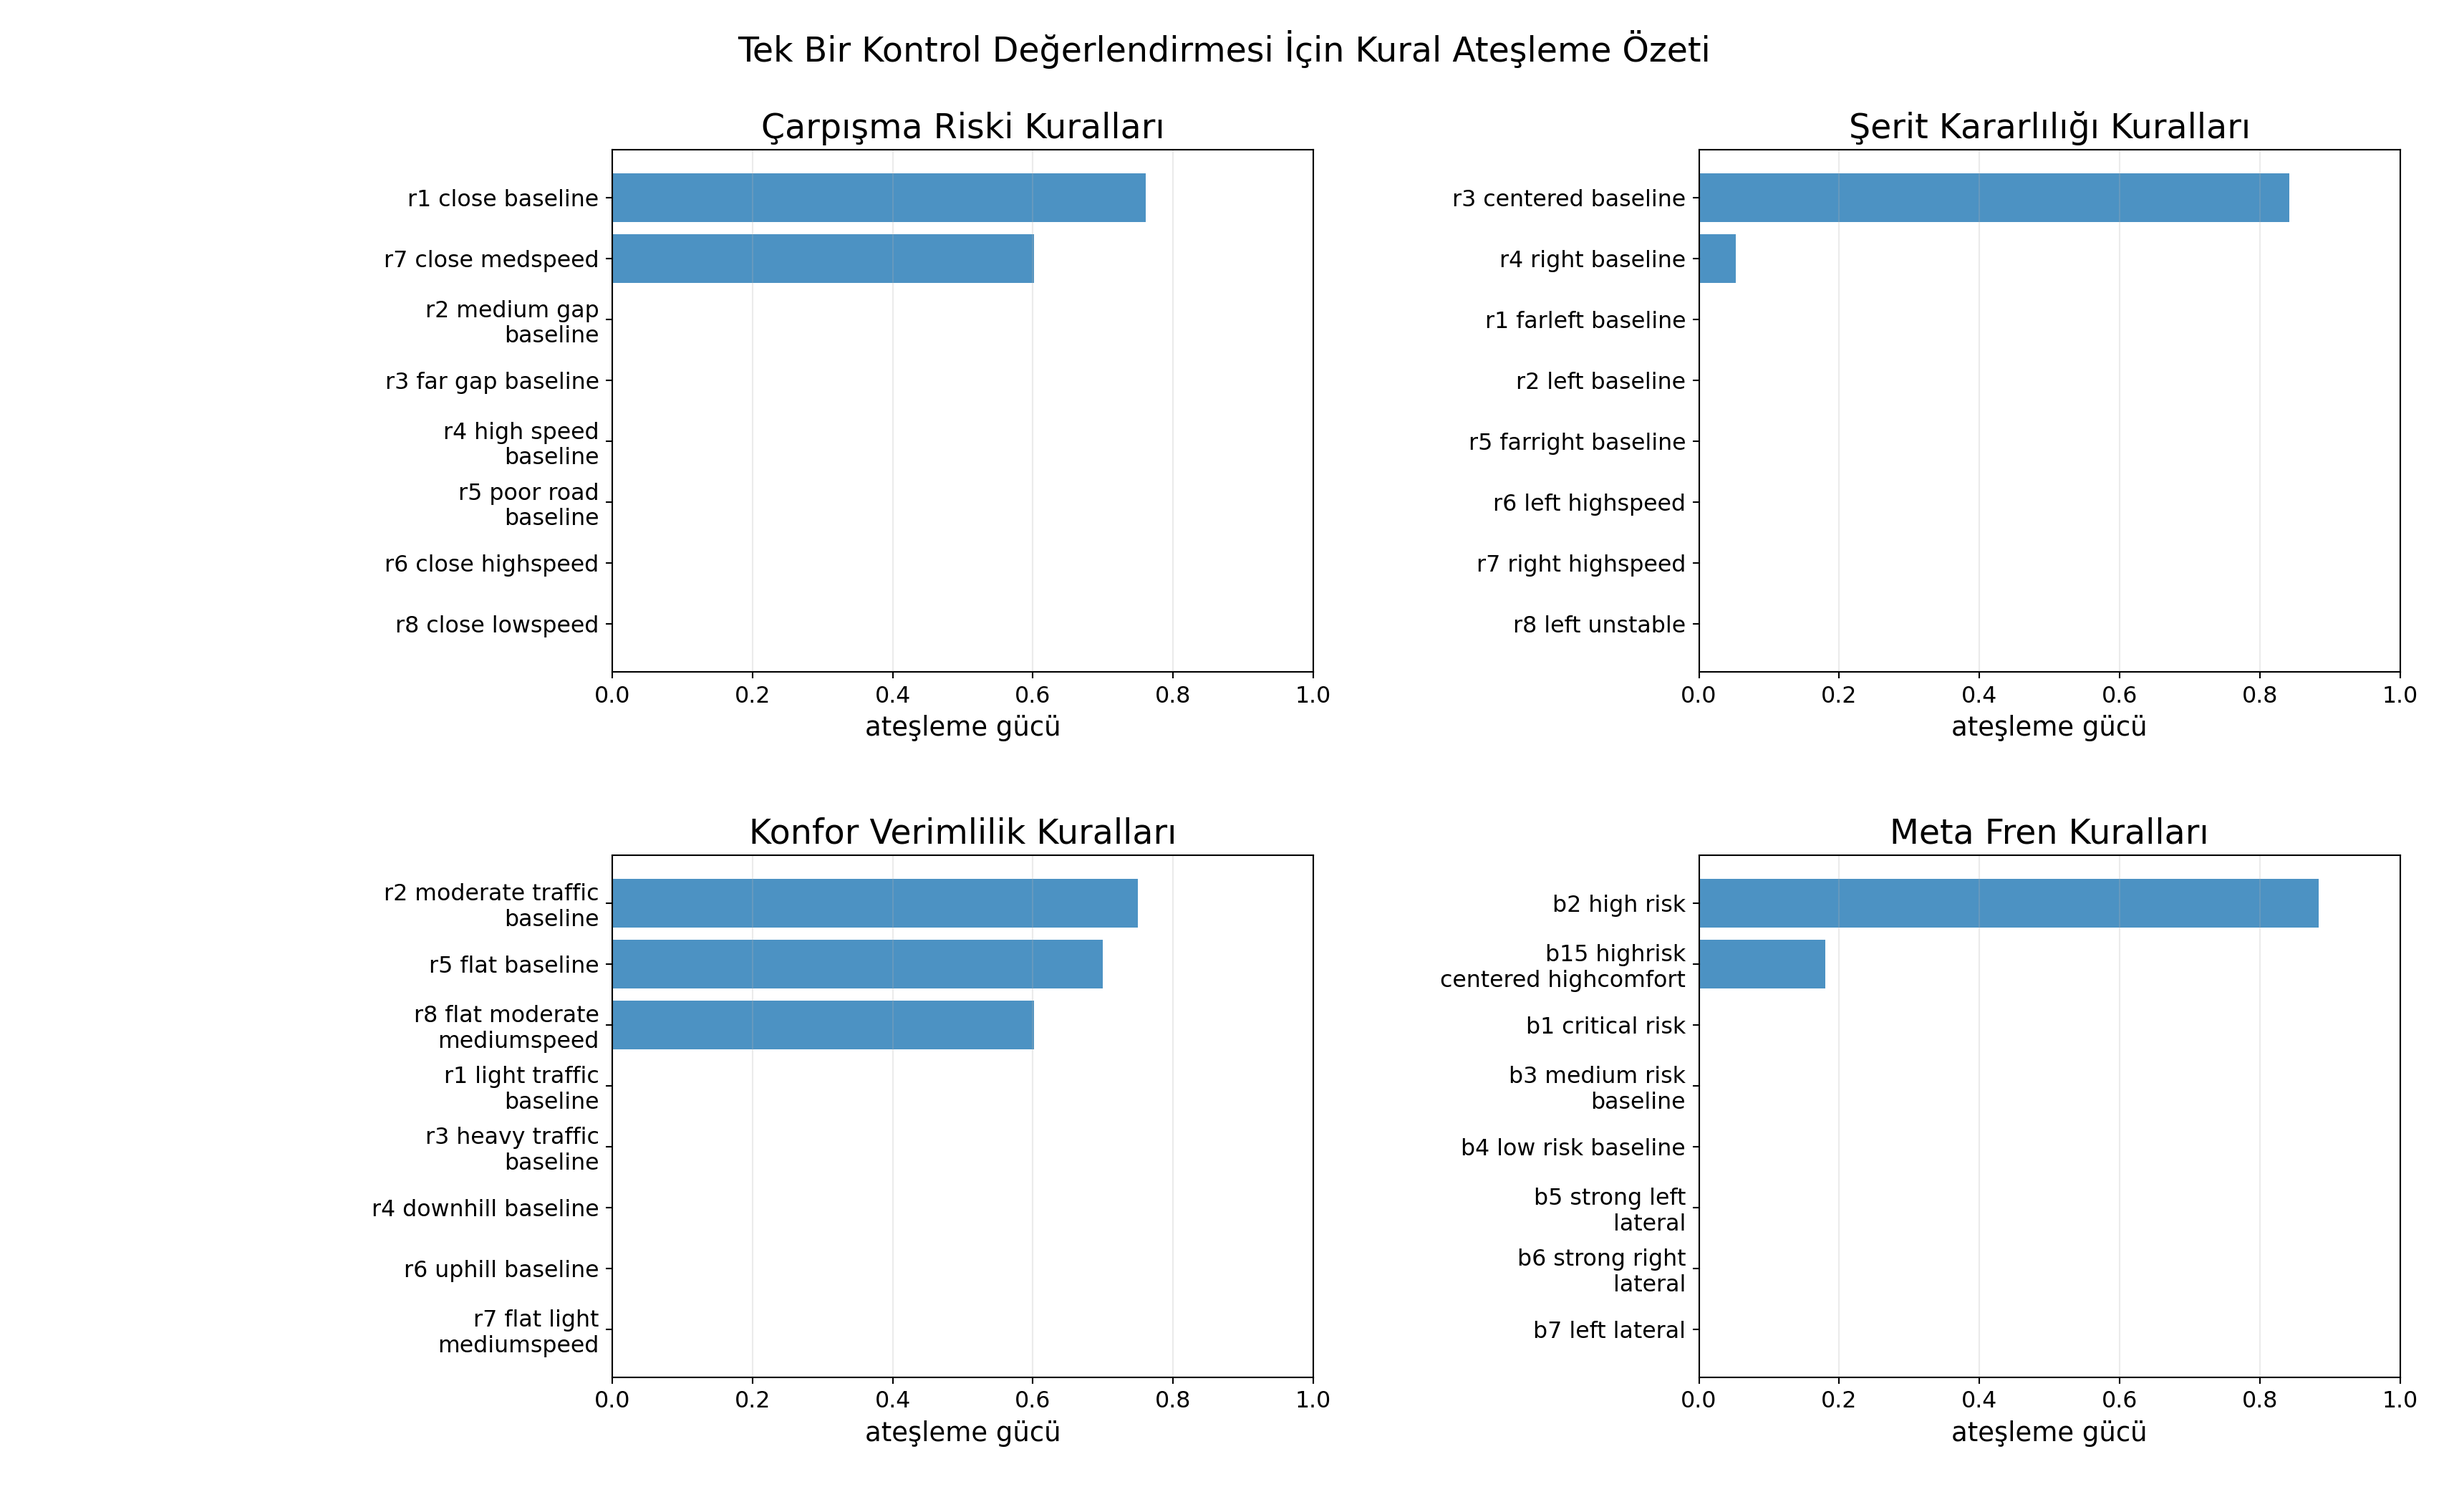
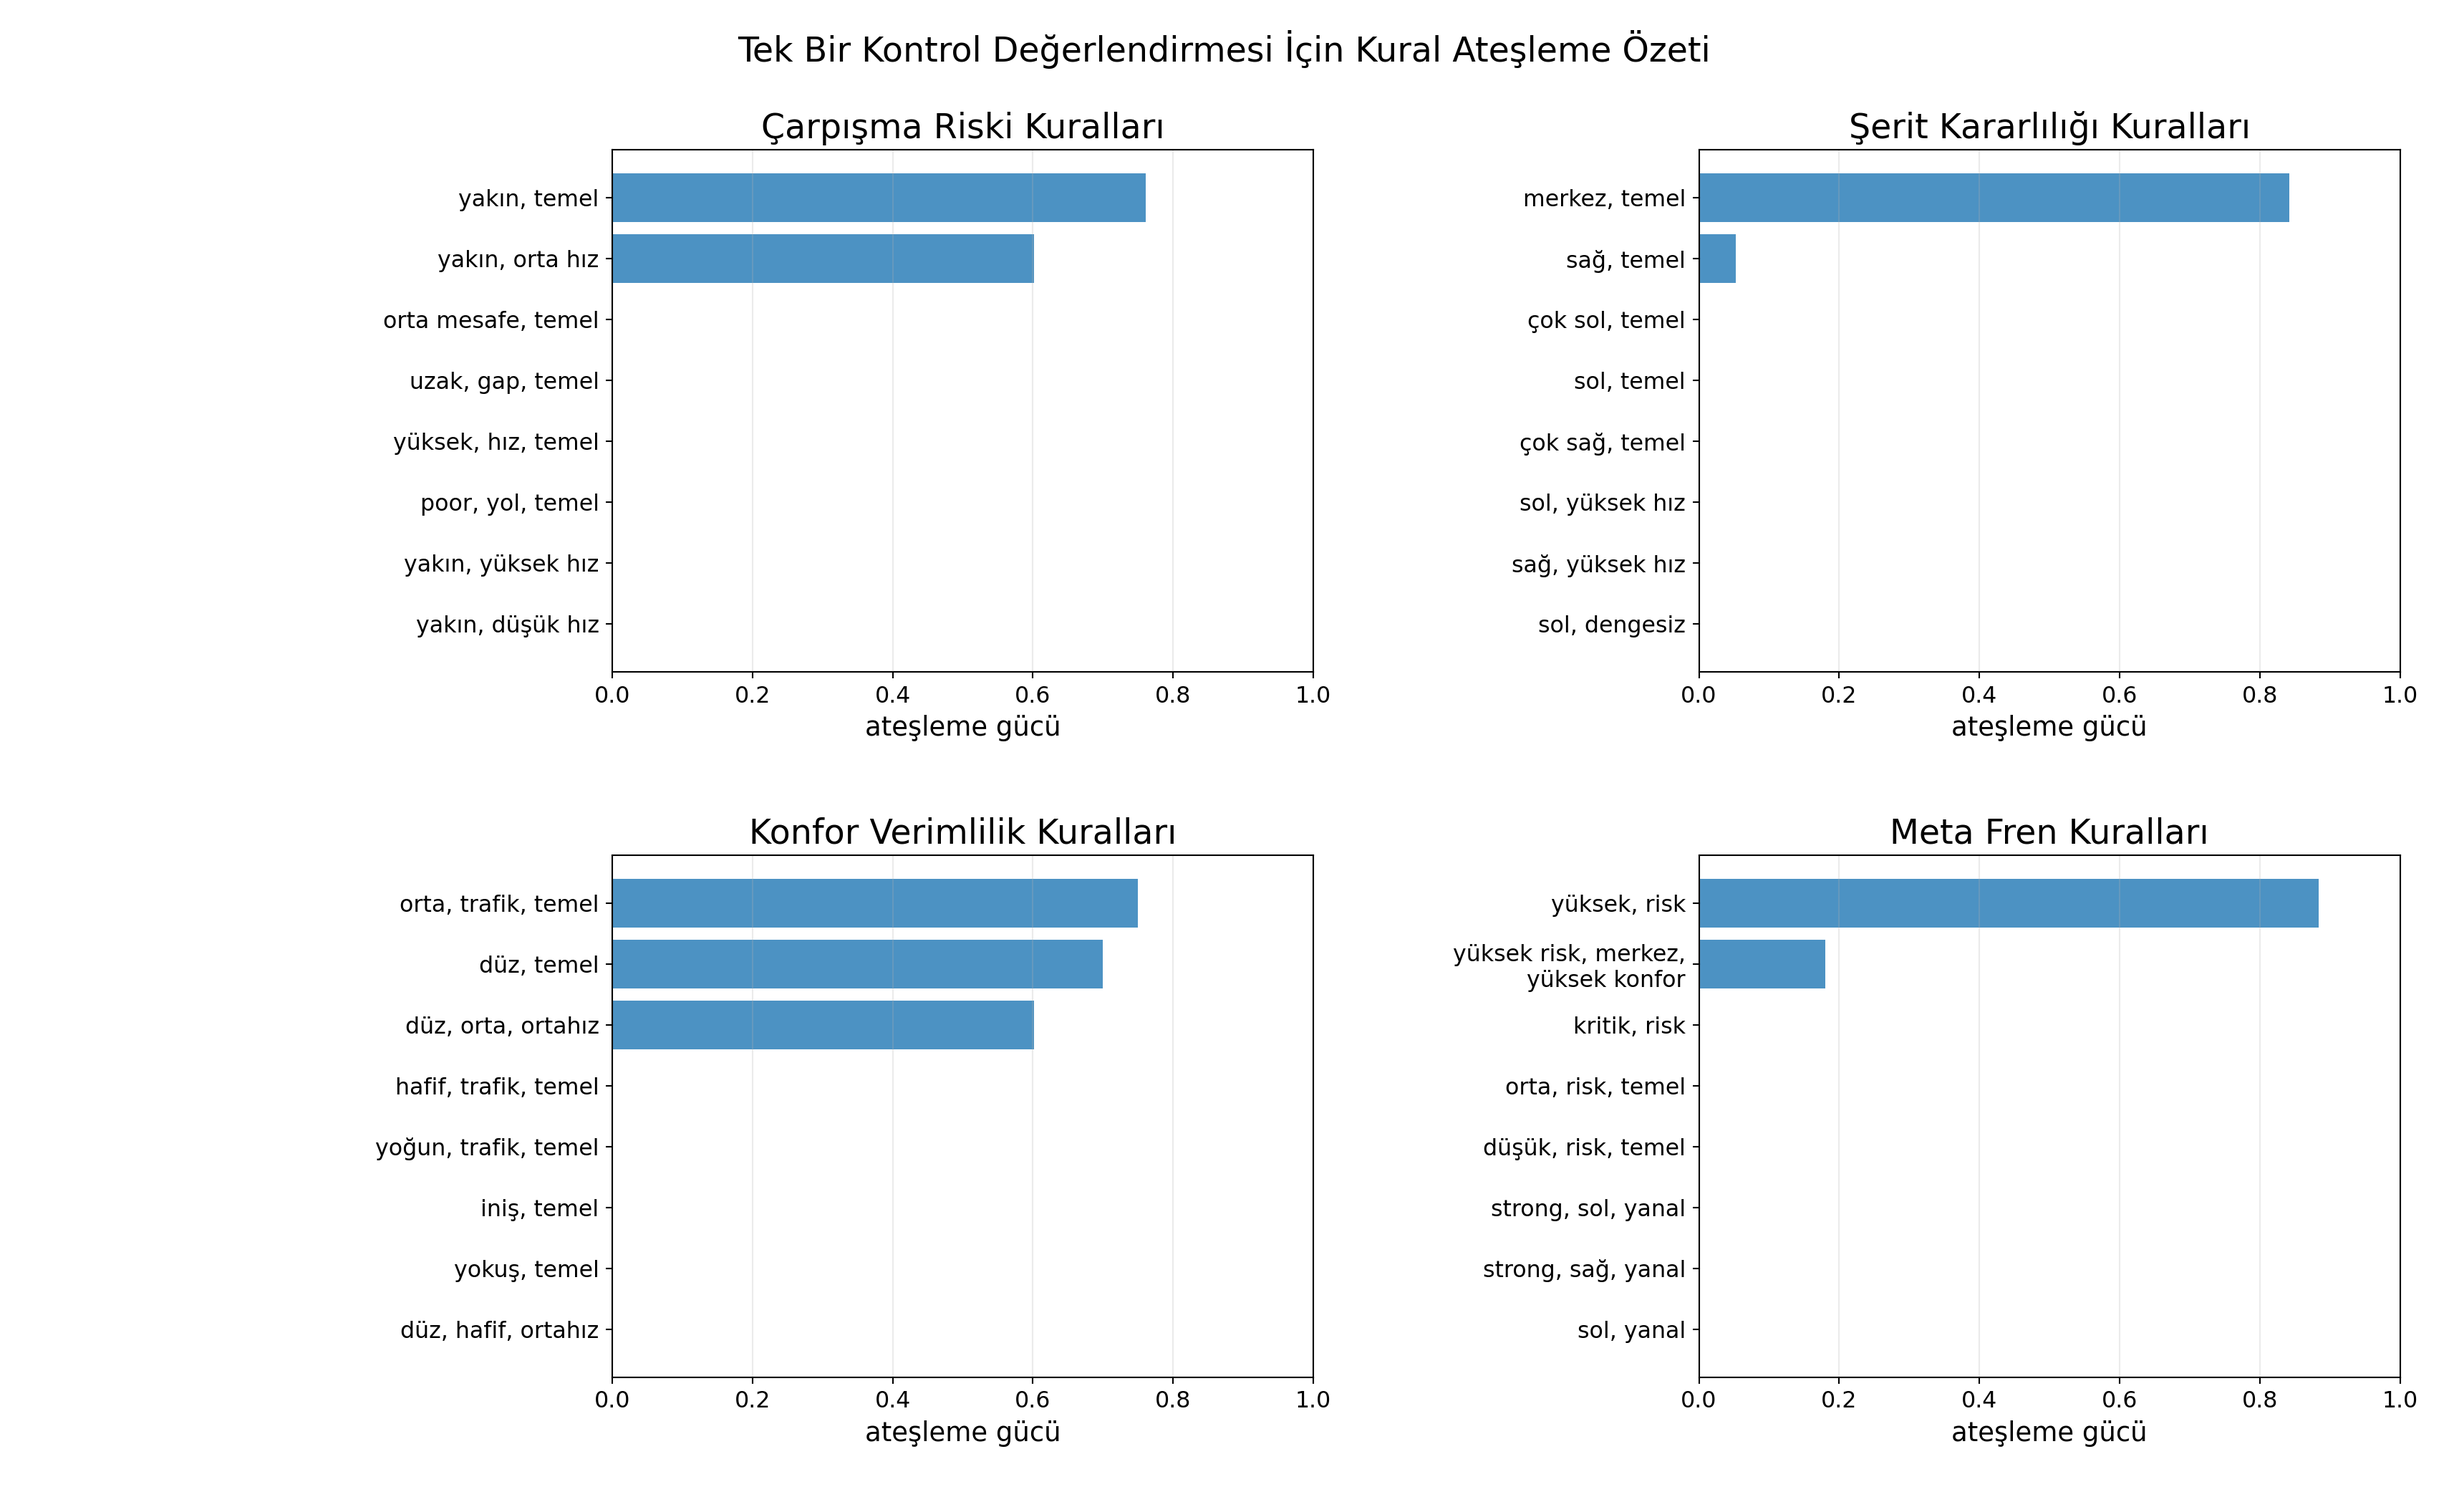
.

diff --git a/visualization/rule_activation.py b/visualization/rule_activation.py
@@ -3,6 +3,7 @@
 from __future__ import annotations
 
 from pathlib import Path
+import re
 import textwrap
 
 import matplotlib.pyplot as plt
@@ -13,10 +14,58 @@ from utils import SimulationStepRecord
 from visualization.plot_style import apply_plot_style, style_axis
 
 
-def _pretty_rule_label(rule_name: str, width: int = 20) -> str:
-    """Convert long internal rule ids into wrapped plot labels."""
+RULE_TERM_TRANSLATIONS = [
+    ("medium_gap", "orta mesafe"),
+    ("highspeed", "yüksek hız"),
+    ("medspeed", "orta hız"),
+    ("lowspeed", "düşük hız"),
+    ("highrisk", "yüksek risk"),
+    ("mediumrisk", "orta risk"),
+    ("lowrisk", "düşük risk"),
+    ("goodroad", "iyi yol"),
+    ("poorroad", "kötü yol"),
+    ("normalroad", "normal yol"),
+    ("farright", "çok sağ"),
+    ("farleft", "çok sol"),
+    ("strongright", "sert sağ"),
+    ("strongleft", "sert sol"),
+    ("highcomfort", "yüksek konfor"),
+    ("mediumcomfort", "orta konfor"),
+    ("lowcomfort", "düşük konfor"),
+    ("centered", "merkez"),
+    ("unstable", "dengesiz"),
+    ("stable", "kararlı"),
+    ("downhill", "iniş"),
+    ("uphill", "yokuş"),
+    ("traffic", "trafik"),
+    ("lateral", "yanal"),
+    ("baseline", "temel"),
+    ("critical", "kritik"),
+    ("moderate", "orta"),
+    ("medium", "orta"),
+    ("heavy", "yoğun"),
+    ("light", "hafif"),
+    ("close", "yakın"),
+    ("right", "sağ"),
+    ("left", "sol"),
+    ("flat", "düz"),
+    ("road", "yol"),
+    ("speed", "hız"),
+    ("risk", "risk"),
+    ("high", "yüksek"),
+    ("low", "düşük"),
+    ("far", "uzak"),
+]
 
-    label = rule_name.replace("_", " ")
+
+def _pretty_rule_label(rule_name: str, width: int = 20) -> str:
+    """Convert long internal rule ids into wrapped Turkish plot labels."""
+
+    label = re.sub(r"^[a-z]+\d+_", "", rule_name)
+    for source, target in RULE_TERM_TRANSLATIONS:
+        label = label.replace(source, target)
+    label = label.replace("_", ", ")
+    label = re.sub(r"\s+", " ", label).strip(" ,")
     return textwrap.fill(label, width=width)
 
 
